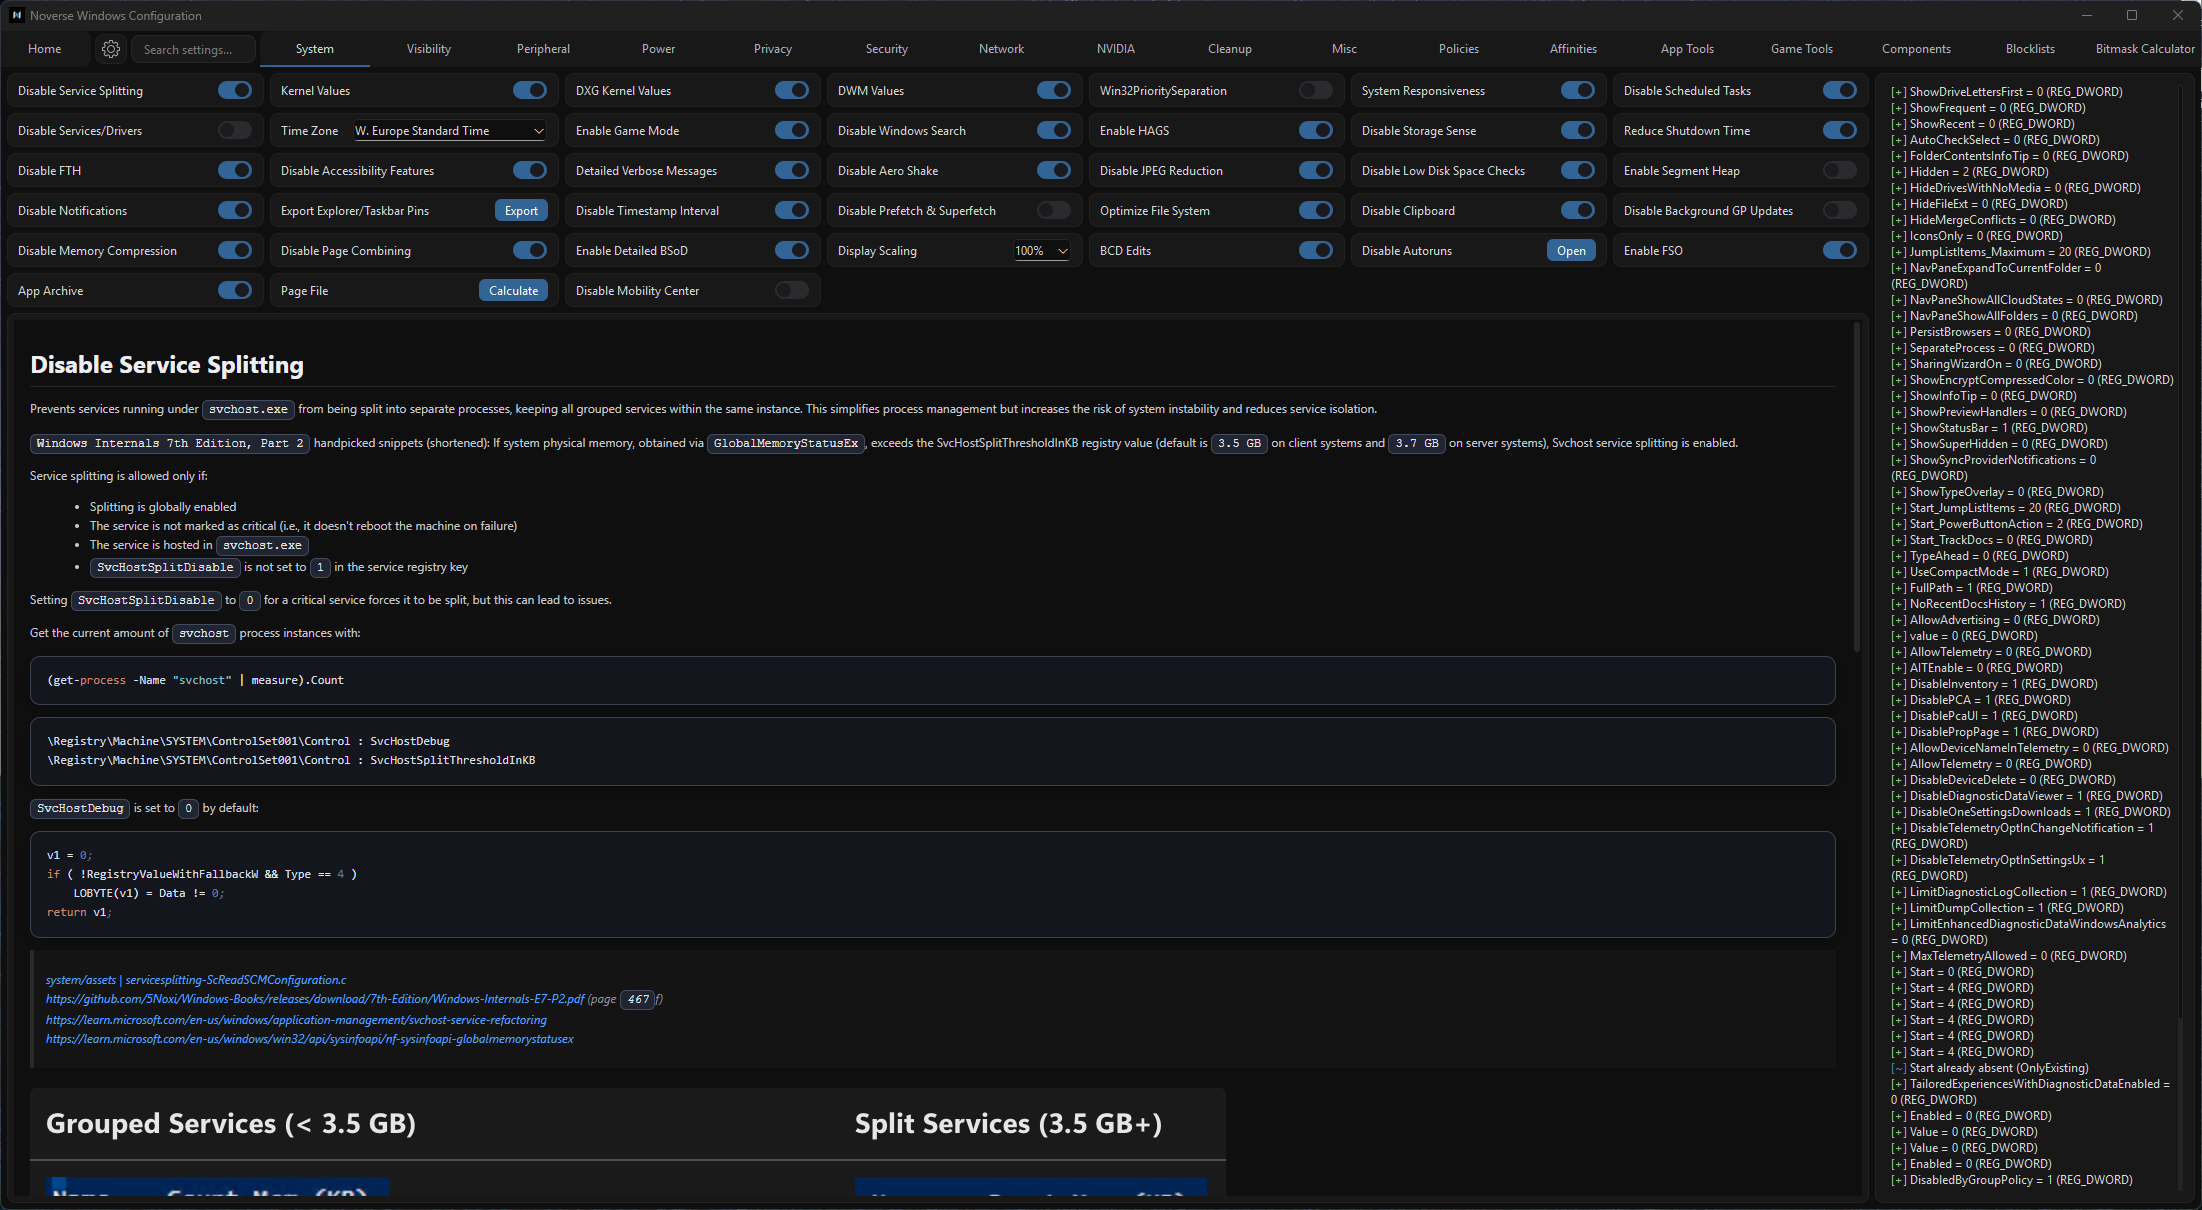
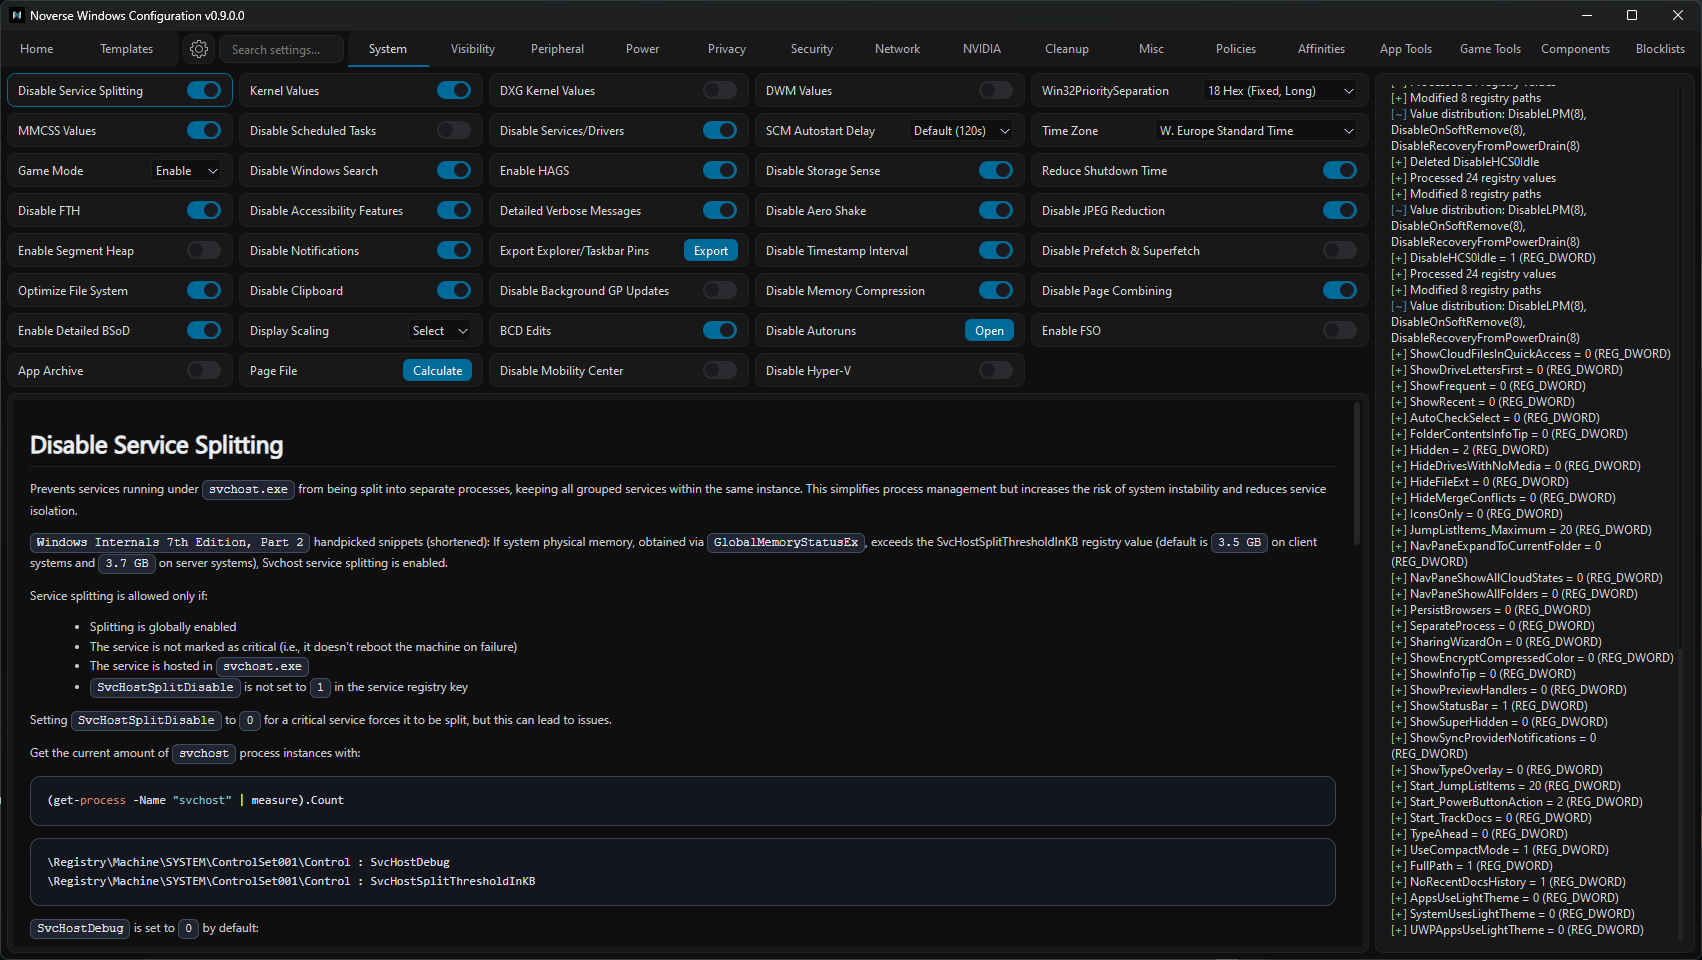
edit mail, add repos

diff --git a/projects.html b/projects.html
@@ -71,12 +71,59 @@
 
           <!-- win-config -->
           <article class="project-card" data-repo="nohuto/win-config" data-tags="OS Config, NVIDIA, App/Game Config">
-            <!--<video class="project-media" src="" controls preload="metadata" playsinline muted></video>-->
+            <img decoding="async" class="project-media-img"
+              src="images/darkbluelogs.png" alt="Windows Configuration preview"
+              loading="lazy" referrerpolicy="no-referrer">
             <div class="project-body">
               <h3 class="project-title">Windows Configuration</h3>
               <p class="project-desc">Fetching description...</p>
               <div class="project-actions">
                 <a class="project-link" href="https://github.com/nohuto/win-config" target="_blank"
+                  rel="noopener noreferrer">Repository</a>
+              </div>
+            </div>
+          </article>
+
+          <!-- regkit -->
+          <article class="project-card" data-repo="nohuto/regkit" data-tags="OS Config, Analysis">
+            <img decoding="async" class="project-media-img"
+              src="images/projects/regkit-ayu-dark.png"
+              alt="RegKit preview" loading="lazy" referrerpolicy="no-referrer">
+            <div class="project-body">
+              <h3 class="project-title">RegKit</h3>
+              <p class="project-desc">Fetching description...</p>
+              <div class="project-actions">
+                <a class="project-link" href="https://github.com/nohuto/regkit" target="_blank"
+                  rel="noopener noreferrer">Repository</a>
+              </div>
+            </div>
+          </article>
+
+          <!-- win-registry -->
+          <article class="project-card" data-repo="nohuto/win-registry" data-tags="OS Config, Analysis">
+            <img decoding="async" class="project-media-img"
+              src="images/projects/win-registry-web.png"
+              alt="WPA example" loading="lazy" referrerpolicy="no-referrer">
+            <div class="project-body">
+              <h3 class="project-title">Windows Registry Research</h3>
+              <p class="project-desc">Fetching description...</p>
+              <div class="project-actions">
+                <a class="project-link" href="https://github.com/nohuto/win-registry" target="_blank"
+                  rel="noopener noreferrer">Repository</a>
+              </div>
+            </div>
+          </article>
+
+          <!-- nvapi-cli -->
+          <article class="project-card" data-repo="nohuto/nvapi-cli" data-tags="OS Config, NVIDIA">
+            <img decoding="async" class="project-media-img"
+              src="images/projects/nvapi-cli.png"
+              alt="NVAPI CLI preview" loading="lazy" referrerpolicy="no-referrer">
+            <div class="project-body">
+              <h3 class="project-title">NVAPI CLI</h3>
+              <p class="project-desc">Fetching description...</p>
+              <div class="project-actions">
+                <a class="project-link" href="https://github.com/nohuto/nvapi-cli" target="_blank"
                   rel="noopener noreferrer">Repository</a>
               </div>
             </div>
@@ -142,7 +189,9 @@
 
           <!-- app-tools -->
           <article class="project-card" data-repo="nohuto/app-tools" data-tags="App/Game Config">
-            <!--<video class="project-media" src="" controls preload="metadata" playsinline muted></video>-->
+            <img decoding="async" class="project-media-img"
+              src="images/projects/app-tools-discordtui.png"
+              alt="App tools preview" loading="lazy" referrerpolicy="no-referrer">
             <div class="project-body">
               <h3 class="project-title">App Configuration Tools</h3>
               <p class="project-desc">Fetching description...</p>
@@ -155,7 +204,9 @@
 
           <!-- game-tools -->
           <article class="project-card" data-repo="nohuto/game-tools" data-tags="App/Game Config">
-            <!--<video class="project-media" src="" controls preload="metadata" playsinline muted></video>-->
+            <img decoding="async" class="project-media-img"
+              src="images/projects/game-tools-mrtui.png"
+              alt="Game tools preview" loading="lazy" referrerpolicy="no-referrer">
             <div class="project-body">
               <h3 class="project-title">Game Configuration Tools</h3>
               <p class="project-desc">Fetching description...</p>
@@ -233,21 +284,6 @@
               <p class="project-desc">Fetching description...</p>
               <div class="project-actions">
                 <a class="project-link" href="https://github.com/nohuto/ps12bat" target="_blank"
-                  rel="noopener noreferrer">Repository</a>
-              </div>
-            </div>
-          </article>
-
-          <!-- wpr-reg-records -->
-          <article class="project-card" data-repo="nohuto/wpr-reg-records" data-tags="OS Config, Analysis">
-            <img decoding="async" class="project-media-img"
-              src="images/projects/wpr-reg-records-web.png"
-              alt="WPR/Procmon registry records interface" loading="lazy" referrerpolicy="no-referrer">
-            <div class="project-body">
-              <h3 class="project-title">WPR/Procmon Registry Activity Records</h3>
-              <p class="project-desc">Fetching description...</p>
-              <div class="project-actions">
-                <a class="project-link" href="https://github.com/nohuto/wpr-reg-records" target="_blank"
                   rel="noopener noreferrer">Repository</a>
               </div>
             </div>
@@ -374,7 +410,7 @@
           <!-- gpu-oc-uv -->
           <article class="project-card" data-repo="nohuto/gpu-oc-uv" data-tags="HW Config">
             <img decoding="async" class="project-media-img"
-              src="images/projects/gpu-oc-uv-oc.png" alt="GPU OC/UV workflow"
+              src="images/projects/gpu-oc-uv-oc.png" alt="GPU OC/UV example"
               loading="lazy" referrerpolicy="no-referrer">
             <div class="project-body">
               <h3 class="project-title">GPU OC/UV Guide</h3>

diff --git a/app.js b/app.js
@@ -34,6 +34,9 @@ const FONT_SET = new Set(FONT_KEYS);
 const REPO_DESC_URL = 'data/repos.json';
 const PROJECT_LIST = [
   { title: 'Windows Configuration', repo: 'nohuto/win-config' },
+  { title: 'RegKit', repo: 'nohuto/regkit' },
+  { title: 'Windows Registry Research', repo: 'nohuto/win-registry' },
+  { title: 'NVAPI CLI', repo: 'nohuto/nvapi-cli' },
   { title: 'AES CBC Encryption', repo: 'nohuto/aes-cbc' },
   { title: 'Bitmask Calculator', repo: 'nohuto/bitmask-calc' },
   { title: 'Blocklist Manager', repo: 'nohuto/blocklist-mgr' },
@@ -45,7 +48,6 @@ const PROJECT_LIST = [
   { title: 'Void Obfuscation', repo: 'nohuto/void' },
   { title: 'PowerShell Minifier', repo: 'nohuto/minifier' },
   { title: 'PS12bat', repo: 'nohuto/ps12bat' },
-  { title: 'WPR/Procmon Registry Activity Records', repo: 'nohuto/wpr-reg-records' },
   { title: 'Base64 Encoding / Character Obfuscation', repo: 'nohuto/b64-char' },
   { title: 'ADMX Parser', repo: 'nohuto/admx-parser' },
   { title: 'Hash Generator', repo: 'nohuto/hash-gen' },
@@ -75,7 +77,7 @@ const ASCII_ART = [
   '_| \\_| \\___/   \\_/  \\___| _|   ____/ \\___|'
 ];
 const EMAIL_KEY = 23;
-const EMAIL_BYTES = [121, 120, 127, 98, 99, 120, 87, 115, 98, 116, 124, 57, 116, 120, 122];
+const EMAIL_BYTES = [121, 120, 127, 98, 99, 120, 87, 99, 98, 99, 118, 57, 126, 120];
 
 const getEmailAddress = () =>
   EMAIL_BYTES.map(byte => String.fromCharCode(byte ^ EMAIL_KEY)).join('');
